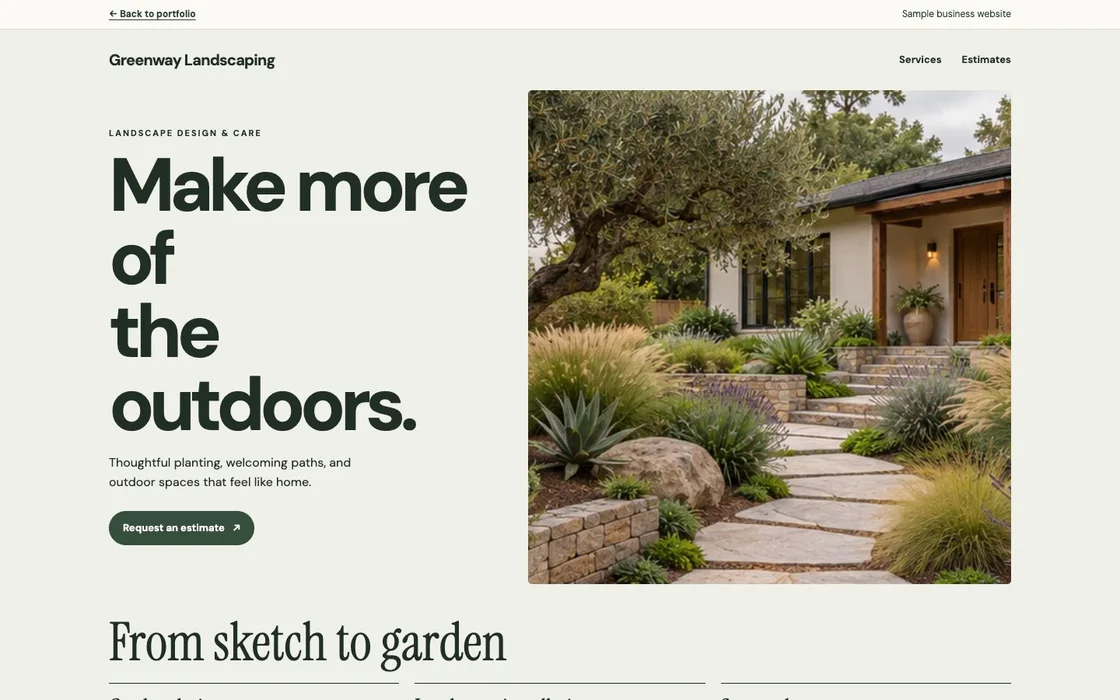
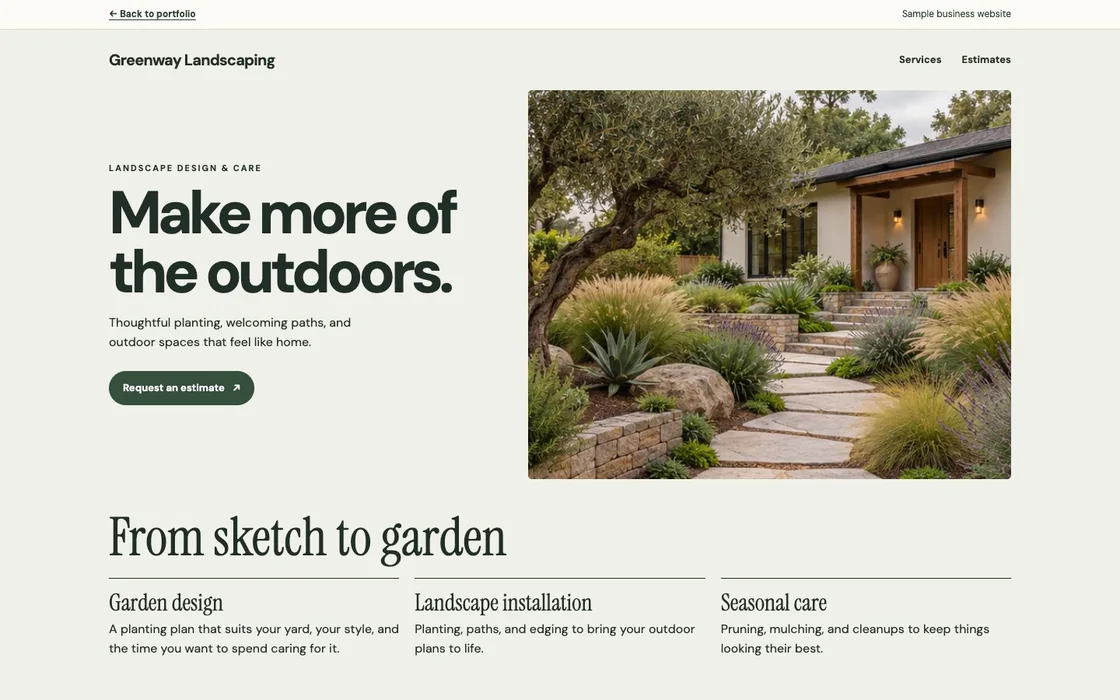
Refine landscaping demo typography

diff --git a/docs/assets/demo.css b/docs/assets/demo.css
@@ -34,7 +34,7 @@ h1 { font-size:clamp(62px,8.1vw,110px); letter-spacing:-.028em; margin: 13px 0 1
 .bakery .hero h1 { max-width: 10ch; }
 .bakery .cta { --button:#f3d5a0; --button-ink:#42261c; }
 .landscaping .brand { font: 700 20px/1 var(--sans); letter-spacing:-.04em; }
-.landscaping .hero h1 { font-family:var(--sans); font-weight:700; font-size:clamp(52px,6.8vw,96px); line-height:.98; letter-spacing:-.07em; }
+.landscaping .hero h1 { font-family:var(--sans); font-weight:700; font-size:clamp(52px,5.35vw,78px); line-height:.98; letter-spacing:-.07em; }
 .landscaping .split > img { border-radius: 5px; }
 .salon .split { grid-template-columns: 1.07fr .93fr; border-top: 1px solid #d9b7a7; }
 .salon .split-copy { padding: 40px 10px 36px 10%; }
